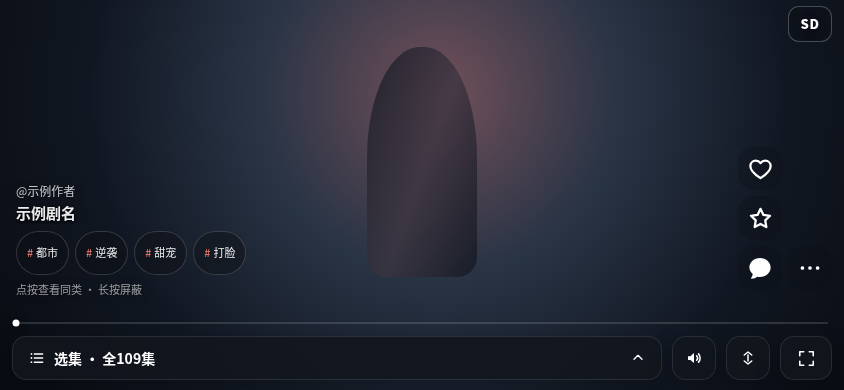
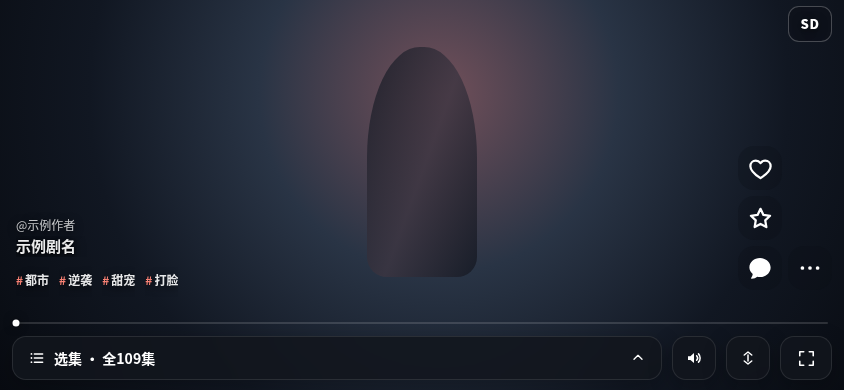
style: render video tags as plain text

Changed region(s): [[0.0, 0.4615, 0.2156, 0.7692], [0.2464, 0.6154, 0.2773, 0.6769]]

diff --git a/src/styles/video-details.css b/src/styles/video-details.css
@@ -25,11 +25,10 @@
 .feed-article-sheet { display:flex; flex-direction:column; height:78dvh; min-height:0; }
 .mobile-video-meta-copy { padding-right:84px; padding-left:16px; }
 .mobile-video-author { margin-bottom:3px; color:rgb(255 255 255 / .76); font-size:12px; line-height:1.4; text-shadow:0 2px 8px rgb(0 0 0 / .65); }
-.current-video-tags { display:flex; gap:6px; max-width:100%; margin-top:7px; overflow-x:auto; overscroll-behavior-x:contain; scrollbar-width:none; pointer-events:auto; }
+.current-video-tags { display:flex; gap:10px; max-width:100%; margin-top:6px; overflow-x:auto; overscroll-behavior-x:contain; scrollbar-width:none; pointer-events:auto; }
 .current-video-tags::-webkit-scrollbar { display:none; }
-.current-video-tag.ios-button { display:inline-flex; flex:none; align-items:center; gap:3px; min-height:34px; max-width:160px; padding:6px 10px; border:1px solid rgb(255 255 255 / .16); border-radius:999px; background:rgb(12 15 22 / .46); color:rgb(255 255 255 / .92); font-size:11px; line-height:1.3; white-space:nowrap; overflow:hidden; text-overflow:ellipsis; backdrop-filter:blur(10px); }
+.current-video-tag.ios-button { display:inline-flex; flex:none; align-items:center; gap:2px; min-height:34px !important; min-width:0 !important; max-width:160px; padding:4px 0; border:0; border-radius:0; background:transparent; box-shadow:none; color:rgb(255 255 255 / .9); font-size:12px; font-weight:600; line-height:1.3; white-space:nowrap; overflow:hidden; text-overflow:ellipsis; text-shadow:0 2px 8px rgb(0 0 0 / .7); backdrop-filter:none; }
 .current-video-tag>span { color:var(--p-accent,#a8c7fa); }
-.current-video-tags-hint { display:block; margin-top:6px; color:rgb(255 255 255 / .58); font-size:11px; white-space:nowrap; text-shadow:0 2px 8px rgb(0 0 0 / .65); }
 .mobile-video-action-rail { --mobile-action-rail-clearance:108px; }
 .mobile-video-action-rail>.ios-button { min-width:48px; min-height:48px; }
 .mobile-playback-dock { display:flex; align-items:center; gap:10px; margin:12px calc(var(--sar,0px) + 12px) 0 calc(var(--sal,0px) + 12px); pointer-events:auto; }

diff --git a/src/features/feed/FeedItemChrome.tsx b/src/features/feed/FeedItemChrome.tsx
@@ -280,7 +280,6 @@ export default function FeedItemChrome({
                 {!!meta.author && <div className="mobile-video-author">@{meta.author}</div>}
                 <p className="text-[15px] font-semibold leading-snug hg-ink-2 hg-ov-shadow-strong clamp-2">{meta.title}</p>
                 <CurrentVideoTags tags={meta.tags} onOpen={openTag} onBlock={tag => openTagMenu([tag])} />
-                {meta.tags.length > 0 && <div className="current-video-tags-hint">点按查看同类 · 长按屏蔽</div>}
               </div>
             </div>
           )}
